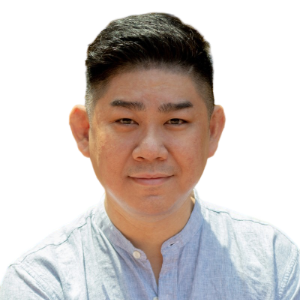
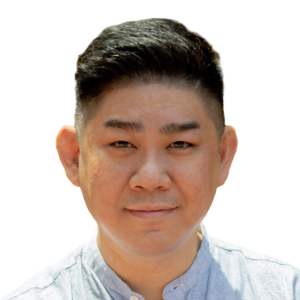
Update council images and grid layout in achievements and instagram sections

diff --git a/src/app/(home)/sections/achievements.tsx b/src/app/(home)/sections/achievements.tsx
@@ -7,7 +7,7 @@ export default function Achievements() {
 				<img
 					src="/images/06.png"
 					alt=""
-					className="pointer-events-none absolute top-0 z-0 w-96 rotate-[-40deg] select-none opacity-40 grayscale-[0.3] md:-left-40"
+					className="pointer-events-none absolute top-0 z-0 w-96 rotate-[-40deg] select-none opacity-20 grayscale-[0.3] md:-left-40 md:opacity-50"
 				/>
 
 				<h2 className="relative mb-12 text-pretty font-heading text-4xl tracking-tight md:text-5xl">

diff --git a/src/app/(home)/sections/instagram.tsx b/src/app/(home)/sections/instagram.tsx
@@ -11,8 +11,10 @@ export default async function Instagram() {
 					From <span className="text-muted-foreground">Instagram</span>
 				</h2> */}
 
-				<div className="grid grid-cols-2 gap-4 lg:grid-cols-8">
-					{posts?.data?.map((post) => <Post key={post.id} post={post} />)}
+				<div className="grid grid-cols-2 gap-4 lg:grid-cols-6">
+					{posts?.data
+						?.slice(0, 6)
+						.map((post) => <Post key={post.id} post={post} />)}
 				</div>
 			</div>
 		</div>
